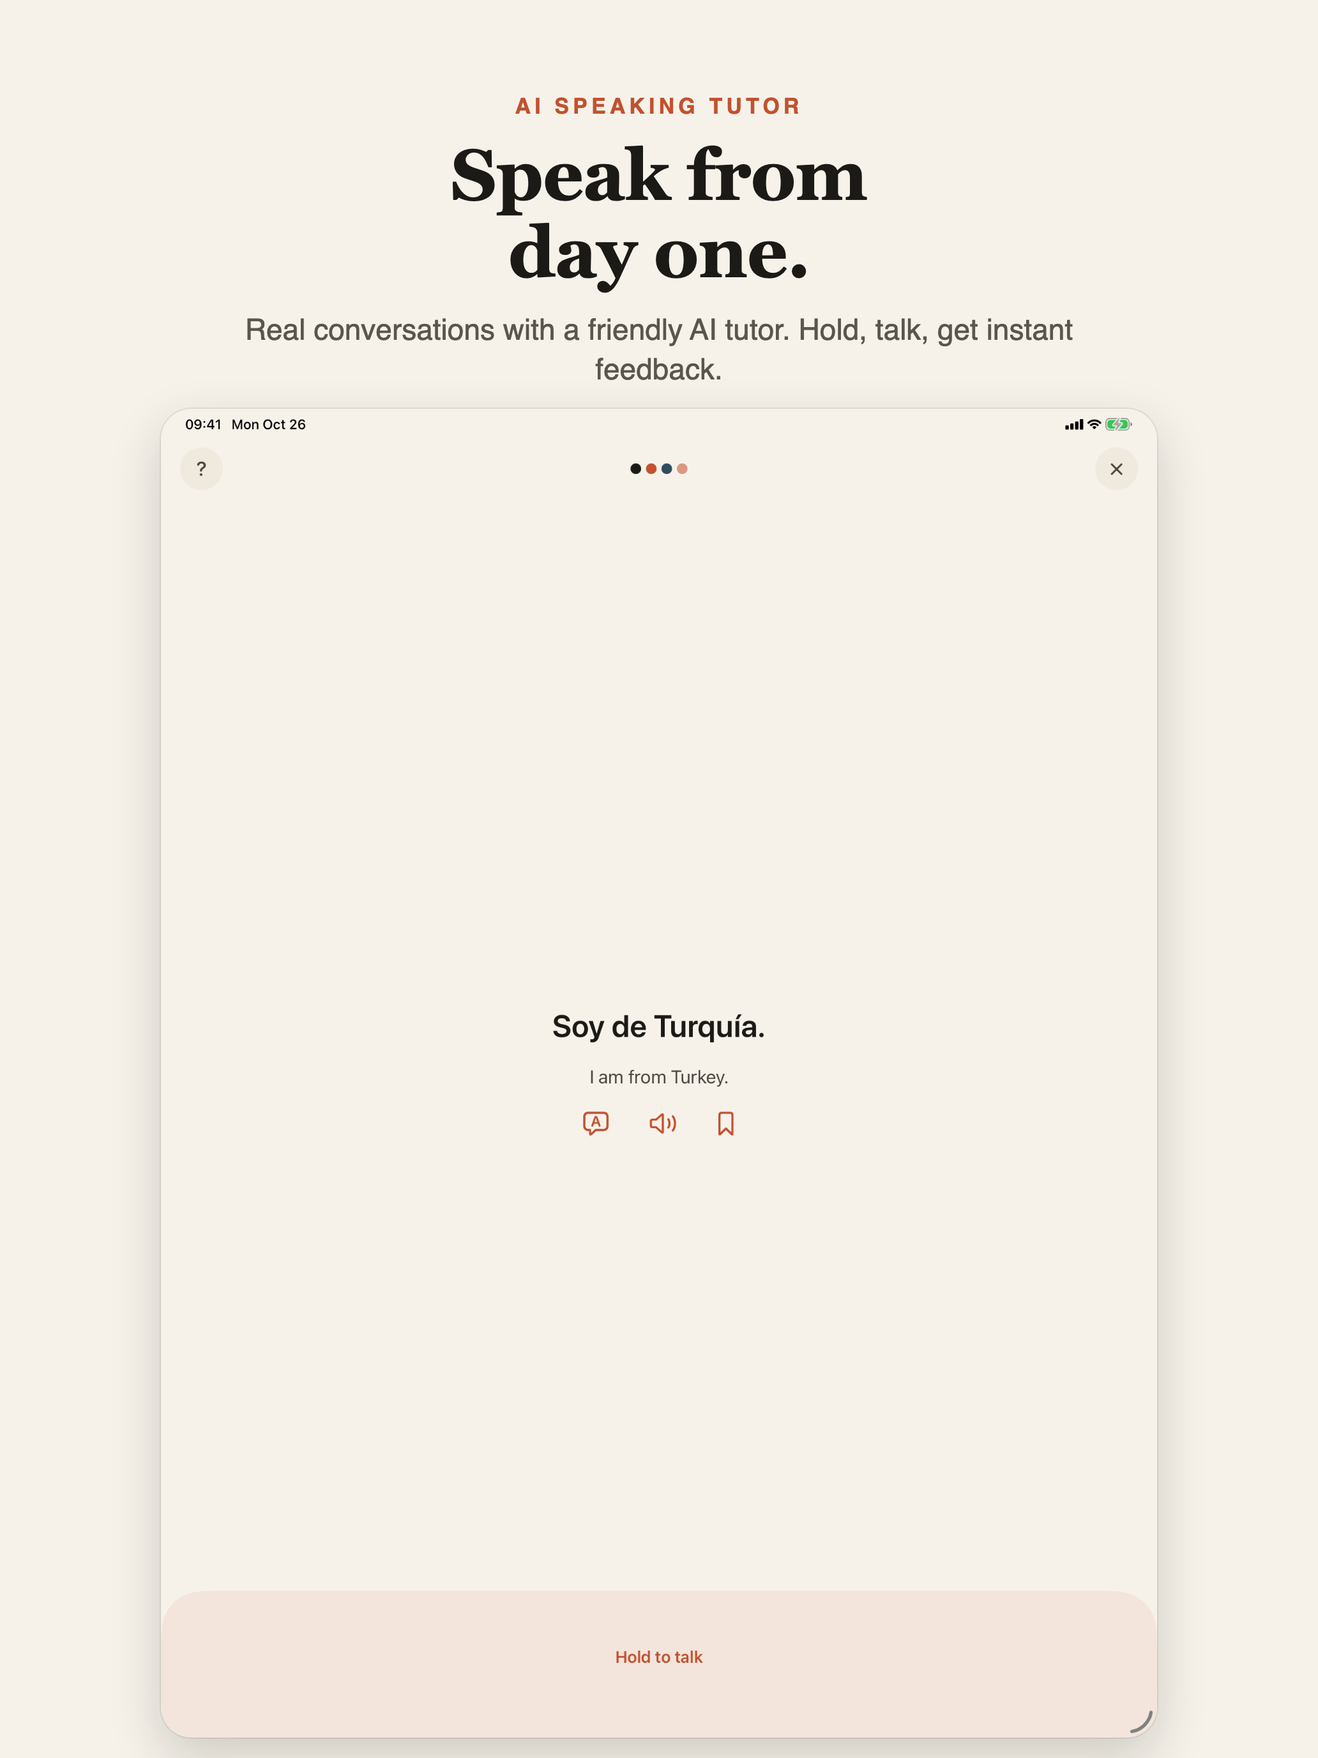
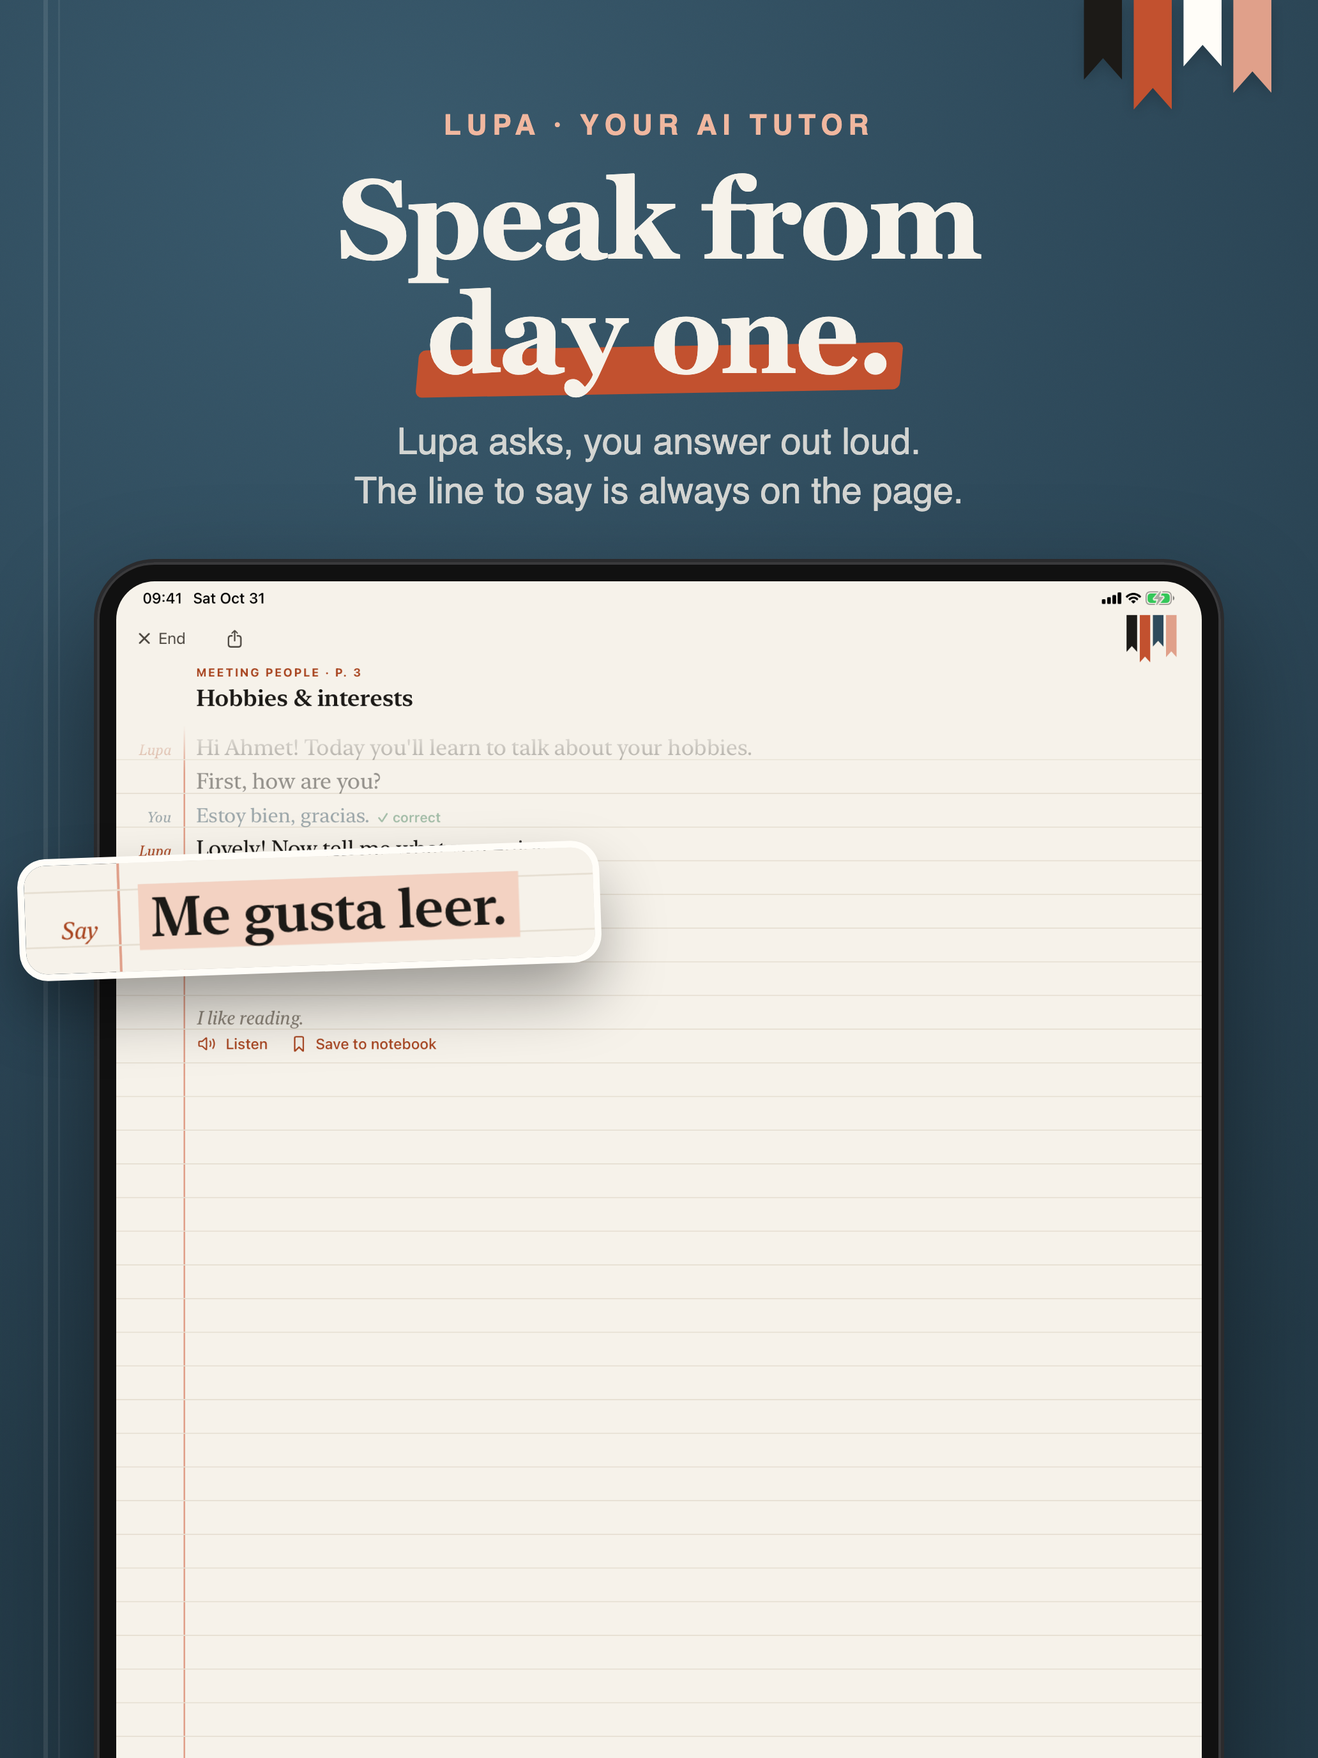
docs(appstore): new notebook-style screenshots (iPhone 6.9", iPad 13", tr/en) and updated listing copy

diff --git a/docs/appstore/aso-research.md b/docs/appstore/aso-research.md
@@ -1,0 +1,171 @@
+# ASO research — WordRem AI (2026-10-27)
+
+Proposals only. Nothing has been changed in App Store Connect. Approve or edit, then apply.
+
+## Data sources and limits
+
+| Source | What it gave | Limit hit |
+|---|---|---|
+| Sonar `keyword_metrics` (Apple Search Popularity 5–100 + Sonar difficulty 0–100) | 5 US keywords | **Free tier = 5 keywords/day per IP**, then 429. Resets 00:00 UTC. No other storefront got real popularity numbers. |
+| Sonar `keyword_search`, competitor keyword/rank tools, `app_aso_score` | — | `keyword_search` needs a Sonar account (sign-in expired); rank/competitor-gap tools need the Indie plan. ASO score: 404, the app isn't live yet. |
+| Sonar `keyword_suggestions` + Apple MZSearchHints (autocomplete) | Real autocomplete in all 10 storefronts, ~90–160 terms each | Order is the only demand signal ("pos 0" = first suggestion). |
+| Sonar `app_extract_keywords` | What Pingo, Speak, Praktika, Duolingo and Babbel optimise for (US) | US only |
+| iTunes Search API (top 10 per term: total ratings of top 5, title matches, which competitors appear) | Full for US; partial for GB/TR/DE | Apple started returning 403 rate limits; FR/ES/MX/IT/RU competition checks failed. |
+
+**To fill the gaps:** run `sonar_keyword_metrics` again after 00:00 UTC (5 more/day), or connect a Sonar account (`/mcp` → sonar → sign in) for bulk metrics and competitor rankings. The top terms to verify next are in each locale's "verify next" line.
+
+## Findings
+
+1. **`docs/appstore/metadata.md` only has en-US and tr.** It says en-US "is also used for the other storefronts". So DE/FR/ES/MX/IT/RU currently show English metadata, and nobody there searches in English. Localizing name, subtitle and keywords for these 6 storefronts is the biggest win here, far bigger than tuning US keywords.
+2. **Outside the US/GB, the dominant intent is "learn/speak *English*" in the local language** (englisch sprechen, parler anglais, hablar inglés, разговорный английский, 英语口语). Competitor titles follow this pattern (DE #1 for "englisch sprechen" is "Praktika - Englisch sprechen"). So the localized subtitles lead with English speaking, and the names keep "learn languages".
+3. **Current en-US wastes a word:** "AI" appears in both the name and the subtitle, and Apple indexes it only once.
+4. **"conversation" and "fluent" alone are weak in US:** the "conversation" top 10 is GoDaddy and chat tools, and "fluent" is a dispensary app. They only help in combinations (ai conversation, conversation practice). "fluent" is dropped below.
+5. **Competitors (US, Sonar extract + titles):**
+   - Pingo: "Language Learning: Pingo AI" / "Spanish, Korean, English +". Targets language learning, ai, conversations, practice, speaking.
+   - Speak: "Speak: Language Learning" / "Spanish, Chinese, English +". Targets speak, language learning, real life, feedback.
+   - Praktika: "Praktika – AI Language Tutor" / "Learn & Speak New Languages". Targets ai language tutor, speaking practice, conversation.
+   - Duolingo: "Duolingo: Learn Languages". Babbel: "Babbel - Language Learning" / "Learn Spanish, French, German+".
+   - Every big player owns "language learning" / "learn languages" (difficulty 83). Realistic early wins for a new app are long-tail terms: speaking practice, ai language tutor (combined from name + subtitle), and language-name combos.
+6. **China: decided 2026-10-27 to drop it.** Mainland China requires a government (CAC) generative-AI filing for apps like this, so China comes out of the availability list and there's no zh-Hans proposal.
+
+## Real Sonar numbers (US, Apple popularity)
+
+| Keyword | Popularity | Difficulty | Est. downloads/day at #1 | Note |
+|---|---|---|---|---|
+| language learning | 59 | 83 | 670 | 8/10 top results have it in the title. Hard, but it's the head term, so it goes in the name for relevance and combos. |
+| ai tutor | 39 | 63 | 200 | Mixed intent (homework apps). Gained via "Tutor" + "AI" across name and subtitle. |
+| ai language tutor | 39 | 79 | 200 | Praktika #1. Covered by combining name and subtitle. |
+| speaking practice | 34 | **45** | 140 | **Best ratio found.** Only 1 title match, so it's beatable, and it goes in the subtitle as an exact phrase. |
+| learn languages | 27 | 83 | 94 | Our current name phrase: half the popularity of "language learning" at the same difficulty. |
+
+---
+
+## en-US
+
+| | Current | Proposed |
+|---|---|---|
+| Name | WordRem AI: Learn Languages (27) | **WordRem AI: Language Learning** (29) |
+| Subtitle | Talk with an AI Speaking Tutor (30) | **Speaking Practice with a Tutor** (30) |
+| Keywords | spanish,english,german,french,italian,russian,chinese,conversation,practice,fluent,pronunciation (96) | **learn,spanish,english,german,french,italian,russian,chinese,conversation,speak,talk,pronunciation** (97) |
+
+| Keyword | Status | Pop / Diff | Evidence |
+|---|---|---|---|
+| language learning | new (name) | 59 / 83 | Sonar |
+| speaking practice | new (subtitle) | 34 / 45 | Sonar. Autocomplete pos 0, top-5 total ratings only 195k (vs 6M+ for head terms). |
+| ai language tutor | combined | 39 / 79 | Sonar. Autocomplete pos 0. |
+| ai tutor | combined | 39 / 63 | Sonar |
+| learn | moved to keywords | — | Keeps "learn languages" (27/83) and "learn spanish" etc. reachable |
+| language names | kept | — | "learn spanish" autocomplete pos 2. Big combo volume with "learn". |
+| speak, talk | new | — | "speak" pos 0 (Speak's brand, but feeds "speak spanish/english"). "talk" combines with ai. |
+| conversation, pronunciation | kept | — | "ai language conversation" pos 3, "english pronunciation" pos 3 |
+| practice | removed (now in subtitle) | — | |
+| fluent | removed | — | top 10 is a dispensary and FluentStream; no relevance |
+
+Verify next (Sonar, 5/day): english speaking practice, ai language learning app, conversation practice, pronunciation, learn spanish.
+
+Option: Apple indexes the es-MX localization in the US storefront, so es-MX keywords also rank in the US. Not used here, so es-MX stays fully Spanish.
+
+## en-GB
+
+Same name and subtitle as US. GB autocomplete matches the US pattern (ai language tutor pos 0, language learning pos 0, speaking english practice pos 0, english pronunciation pos 0, british pronunciation pos 1). "ai language tutor" top 5 has only 51k total ratings in GB vs 744k in US, so it's easier here.
+
+| | Proposed |
+|---|---|
+| Name | **WordRem AI: Language Learning** (29) |
+| Subtitle | **Speaking Practice with a Tutor** (30) |
+| Keywords | **learn,spanish,english,german,french,italian,russian,chinese,conversation,speak,talk,pronunciation** (97) |
+
+## tr (Türkçe)
+
+| | Current | Proposed |
+|---|---|---|
+| Name | WordRem AI: Yabancı Dil Öğren (29) | keep: **WordRem AI: Yabancı Dil Öğren** (29) |
+| Subtitle | Yapay Zeka ile İngilizce Konuş (30) | **İngilizce Konuşma ve Telaffuz** (29) |
+| Keywords | ispanyolca,almanca,fransızca,italyanca,rusça,çince,sohbet,pratik,telaffuz,kelime,konuşma,öğretmen (97) | **yapay,zeka,öğrenme,ispanyolca,almanca,fransızca,italyanca,rusça,çince,pratik,sohbet,öğretmen,sesli** (98) |
+
+| Term (autocomplete) | Pos | Covered by |
+|---|---|---|
+| yabancı dil öğrenme | 0 | name + "öğrenme" in keywords (Apple barely stems Turkish, so öğren ≠ öğrenme) |
+| ai ingilizce konuşma | 0 | "AI" in name + subtitle "İngilizce Konuşma" (current subtitle has "Konuş", not "Konuşma") |
+| yapay zeka ingilizce öğrenme | 0 | yapay,zeka in keywords + subtitle |
+| ingilizce telaffuz | 0 | subtitle |
+| sesli sohbet | 0 | keywords (generic voice-chat intent, weak but cheap) |
+| almanca öğreniyorum / ispanyolca öğren | 0 | language names |
+| konuşma uygulamaları | 0 | subtitle |
+
+Competition: "yapay zeka ingilizce" has Praktika #1 and 0 exact-title matches, so it's open. "yabancı dil öğrenme": Duolingo/Busuu, 0 exact-title matches. "kelime" dropped (old vocab-app positioning).
+Verify next: ai ingilizce konuşma, yapay zeka ingilizce, ingilizce konuşma, yabancı dil öğrenme, ingilizce telaffuz.
+
+## de-DE
+
+| | Current | Proposed |
+|---|---|---|
+| Name | (English fallback) | **WordRem AI: Sprachen lernen** (27) |
+| Subtitle | (English fallback) | **Englisch sprechen mit KI-Tutor** (30) |
+| Keywords | (English fallback) | **sprachlehrer,spanisch,französisch,italienisch,russisch,türkisch,aussprache,konversation,üben,app** (96) |
+
+Autocomplete: sprachen lernen (0), englisch sprechen lernen kostenlos (0), mit ki englisch lernen kostenlos (0), englisch aussprache (0), ki englisch sprechen (1), sprachen lernen ki (2), konversation auf englisch (1). Four competitor titles use "KI-Sprachlehrer" (BetterSpeak, Univerbal, LinguaAI, LingoYak), so "sprachlehrer" is in the keywords to combine with KI. "englisch sprechen": Praktika #1 with that exact title, Babbel/Duolingo/Speak in the top 10 (hard). Chinesisch dropped for space (lowest demand). Türkisch kept ("sprachen lernen türkisch" in autocomplete).
+Verify next: sprachen lernen, englisch sprechen, ki englisch, ki sprachlehrer, aussprache.
+
+## fr-FR
+
+| | Current | Proposed |
+|---|---|---|
+| Name | (English fallback) | **WordRem AI: Parler Anglais** (26) |
+| Subtitle | (English fallback) | **Apprendre une langue avec l'IA** (30) |
+| Keywords | (English fallback) | **ia,langues,espagnol,allemand,italien,russe,chinois,turc,prononciation,conversation,oral,tuteur,prof** (99) |
+
+Autocomplete: parler anglais avec ia (0), apprendre l'anglais gratuitement (0), ia anglais gratuit (0), apprendre langue gratuit (0), prononciation anglaise (0), conversation anglais (1), tuteur ia anglais oral (3). "ia" is repeated in the keywords on purpose, because it's unclear whether Apple tokenizes "l'IA" as "ia". Competition data unavailable (403).
+Verify next: parler anglais, ia anglais, apprendre l'anglais, apprendre langue, prononciation anglaise.
+
+## es-ES
+
+| | Current | Proposed |
+|---|---|---|
+| Name | (English fallback) | **WordRem AI: Aprender Idiomas** (28) |
+| Subtitle | (English fallback) | **Hablar inglés con tutor de IA** (29) |
+| Keywords | (English fallback) | **francés,alemán,italiano,ruso,chino,turco,pronunciación,conversación,profesor,practicar,app,clases** (97) |
+
+Autocomplete: aprender idiomas (0), pronunciación en inglés (0), profesor particular (0), hablar inglés praktika (0, so Praktika owns "hablar inglés"), ia idiomas (4), conversación iq: tutor idiomas (3). No competition data (403).
+Verify next: aprender idiomas, hablar inglés, ia inglés, pronunciación en inglés, aprender inglés.
+
+## es-MX
+
+| | Current | Proposed |
+|---|---|---|
+| Name | (English fallback) | **WordRem AI: Aprender Idiomas** (28) |
+| Subtitle | (English fallback) | **Hablar inglés con tutor de IA** (29) |
+| Keywords | (English fallback) | **francés,alemán,italiano,ruso,chino,turco,pronunciación,conversación,profesor,aplicación,practicar** (97) |
+
+Autocomplete: aprender idiomas (0), aplicación para hablar inglés (0), pronunciación en inglés (0), conversación en inglés (1), aprender a hablar inglés (2), ia ingles (3), hablar con ia (4). Same as ES, with "aplicación" for "aplicación para hablar inglés".
+
+## it
+
+| | Current | Proposed |
+|---|---|---|
+| Name | (English fallback) | **WordRem AI: Imparare Lingue** (27) |
+| Subtitle | (English fallback) | **Parlare inglese con tutor IA** (28) |
+| Keywords | (English fallback) | **spagnolo,francese,tedesco,russo,cinese,turco,conversazione,pronuncia,app,insegnante,corso,pratica** (97) |
+
+Autocomplete: imparare lingue gratis (0), parlare inglese gratis (0), ia inglese gratis (0), app conversazione inglese (0), pronuncia inglese (0), imparare spagnolo gratis (0), app per parlare inglese (4), praktika: parlare inglese ai (3). No competition data.
+Verify next: imparare lingue, parlare inglese, ia inglese, conversazione inglese, pronuncia inglese.
+
+## ru
+
+| | Current | Proposed |
+|---|---|---|
+| Name | (English fallback) | **WordRem AI: Изучение языков** (27) |
+| Subtitle | (English fallback) | **Разговорный английский с ИИ** (27) |
+| Keywords | (English fallback) | **учить,испанский,немецкий,французский,итальянский,китайский,турецкий,репетитор,произношение,говорить** (99) |
+
+Autocomplete: учить языки (0), разговорный английский бесплатно (0), ии английский (0), изучение языков бесплатно (0), произношение английских слов (0), репетитор по английскому (1), говорить на английском (2). Note: App Store purchases in Russia are restricted for many users, so it's lower priority.
+Verify next: разговорный английский, ии английский, изучение языков, учить языки, репетитор по английскому.
+
+---
+
+## Next steps
+
+1. Remove China (mainland) from the availability list in App Store Connect.
+2. Approve or edit the 9 blocks above. Apply them in App Store Connect with the 1.0 submission, or right after (name/subtitle changes need a new version; keywords too).
+3. Over the next days, spend the 5 free Sonar lookups/day on the "verify next" lists, starting with TR and DE. Or connect a Sonar account to do it in one go.
+4. Descriptions are only localized for en and tr. Apple doesn't index description text for search, so it matters for conversion only. Localizing DE/FR/ES/IT/RU descriptions is a separate (translation) task.

diff --git a/docs/appstore/metadata.md b/docs/appstore/metadata.md
@@ -4,7 +4,8 @@ Screenshots: `en/` and `tr/`, 6 slides each.
 - iPhone 6.9" (1320×2868): `iphone_1…6`
 - iPad 13" (2064×2752): `ipad_1…6`
 
-Order: speaking lesson → daily goal → plan → free chat → lesson complete → languages
+Order: speaking lesson (`talk`) → notebook page (`notebook`) → today's page (`today`) → contents/plan (`plan`) → lesson complete (`done`) → notebook-cover profile (`profile`).
+Source: simulator shots with `-DemoData YES` (Lupa's lesson, saved notebook pages, 42 min / 12-day demo streak), composed in HTML. No ratings, reviews or user-count claims on the slides.
 
 ## English (U.S.) — also used for the other storefronts
 
@@ -13,13 +14,13 @@ Order: speaking lesson → daily goal → plan → free chat → lesson complete
 | Name | WordRem AI: Learn Languages | 27/30 |
 | Subtitle | Talk with an AI Speaking Tutor | 30/30 |
 | Keywords | spanish,english,german,french,italian,russian,chinese,conversation,practice,fluent,pronunciation | 96/100 |
-| Promotional text | New: talk with your AI tutor about anything, skip any question, and add a new language with a one-minute voice setup. | 117/170 |
+| Promotional text | New look: every chat with Lupa becomes a page in your notebook. Tap any word to mark it and review it later. Pick your level from A1 to C1. | 139/170 |
 
 ### Description
 
-Speak a new language from day one, with a friendly AI tutor who actually talks with you.
+Speak a new language from day one, with Lupa, a friendly AI tutor who actually talks with you.
 
-WordRem AI is a voice-first language tutor. Hold the button, say it out loud, and get instant, kind feedback, just like a real lesson with a great teacher.
+WordRem AI is a voice-first language tutor that writes every lesson into your own notebook. Hold the button, say it out loud, and get instant, kind feedback, just like a real lesson with a great teacher.
 
 REAL CONVERSATIONS, NOT QUIZZES
 • Short voice lessons built around real-life moments: meeting people, cafés, airports, work
@@ -35,9 +36,18 @@ TALK ABOUT ANYTHING
 • Free chat with your assistant: roleplay, new phrases, a quick question or just your day
 • Don't like a question? Skip it or change the topic anytime
 
+YOUR SPEAKING NOTEBOOK
+• Every conversation becomes a dated page you can flip through later
+• Tap any word on a page to mark it; it joins your reviews with its meaning
+• Each lesson ends with a stamp and the new phrases you learned, with audio
+
 REMEMBER WHAT YOU LEARN
-• Phrases you practice are saved and come back in smart reviews right before you'd forget them
-• Save favorite lines to your own decks
+• Phrases you practice come back in smart reviews right before you'd forget them
+• Save favorite lines to your own notebooks
+
+MADE FOR YOUR LEVEL
+• Choose your level from A1 to C1 and how fast Lupa speaks
+• Corrections only where they matter, translations whenever you want them
 
 8 LANGUAGES
 Spanish, English, German, French, Italian, Russian, Chinese and Turkish. Add a new language with a one-minute voice setup and keep separate progress for each.
@@ -54,13 +64,13 @@ Terms: https://api.wordremai.app/terms
 | Ad | WordRem AI: Yabancı Dil Öğren | 29/30 |
 | Alt başlık | Yapay Zeka ile İngilizce Konuş | 30/30 |
 | Anahtar kelimeler | ispanyolca,almanca,fransızca,italyanca,rusça,çince,sohbet,pratik,telaffuz,kelime,konuşma,öğretmen | 97/100 |
-| Tanıtım metni | Yeni: Asistanınla istediğin konuyu konuş, beğenmediğin soruyu geç, yeni bir dili bir dakikalık sesli kurulumla ekle. | 116/170 |
+| Tanıtım metni | Yeni tasarım: Lupa ile her sohbetin defterinde bir sayfa olur. Sayfadaki kelimeye dokun, işaretle, sonra tekrar et. Seviyeni A1–C1 arasında seç. | 144/170 |
 
 ### Açıklama
 
-Yeni bir dili ilk günden konuşmaya başla; seninle gerçekten konuşan, samimi bir yapay zekâ öğretmenle.
+Yeni bir dili ilk günden konuşmaya başla; seninle gerçekten konuşan, samimi yapay zekâ öğretmenin Lupa ile.
 
-WordRem AI sesli bir dil öğretmeni. Butona basılı tut, yüksek sesle söyle ve anında, nazik geri bildirim al. Tıpkı iyi bir öğretmenle yapılan gerçek bir ders gibi.
+WordRem AI, her dersi senin defterine yazan sesli bir dil öğretmeni. Butona basılı tut, yüksek sesle söyle ve anında, nazik geri bildirim al. Tıpkı iyi bir öğretmenle yapılan gerçek bir ders gibi.
 
 TEST DEĞİL, GERÇEK SOHBET
 • Gerçek hayattan anlara göre kısa sesli dersler: tanışma, kafe, havalimanı, iş
@@ -76,9 +86,18 @@ SENİNLE BİRLİKTE İLERLEYEN PLAN
 • Asistanınla serbest sohbet: rol yap, yeni ifadeler öğren, hızlıca bir şey sor ya da gününü anlat
 • Bir soruyu beğenmedin mi? İstediğin an geç ya da konuyu değiştir
 
+KONUŞMA DEFTERİN
+• Her sohbet tarihli bir sayfa olur, sonra sayfa sayfa çevirebilirsin
+• Sayfadaki kelimeye dokun, işaretle; anlamıyla tekrar listene düşsün
+• Her ders bir mühürle ve öğrendiğin yeni ifadelerle (sesleriyle) biter
+
 ÖĞRENDİĞİNİ UNUTMA
-• Pratik yaptığın ifadeler kaydedilir, tam unutacakken akıllı tekrarlarla geri gelir
-• Sevdiğin cümleleri kendi destelerine kaydet
+• Pratik yaptığın ifadeler tam unutacakken akıllı tekrarlarla geri gelir
+• Sevdiğin cümleleri kendi defterlerine kaydet
+
+SENİN SEVİYENE GÖRE
+• Seviyeni A1–C1 arasında seç, Lupa'nın konuşma hızını ayarla
+• Sadece önemli hatalarda düzeltme, istediğin an çeviri
 
 8 DİL
 İngilizce, İspanyolca, Almanca, Fransızca, İtalyanca, Rusça, Çince ve Türkçe. Yeni bir dili bir dakikalık sesli kurulumla ekle; her dilin ilerlemesi ayrı tutulur.
